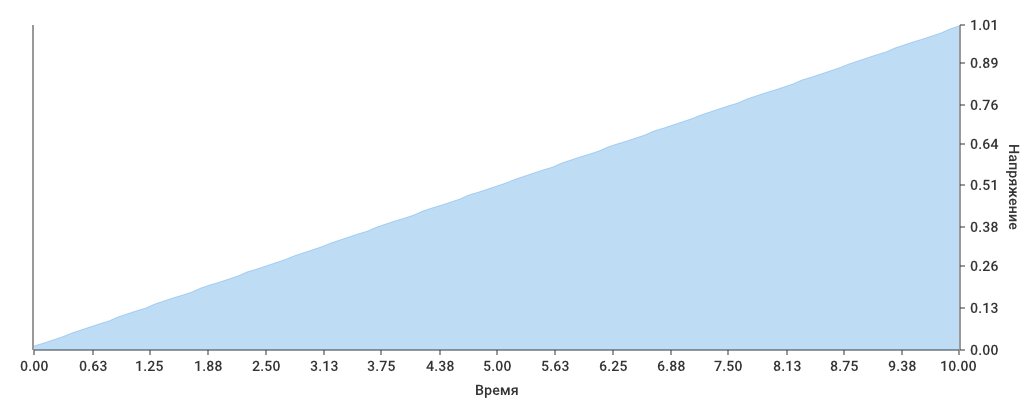
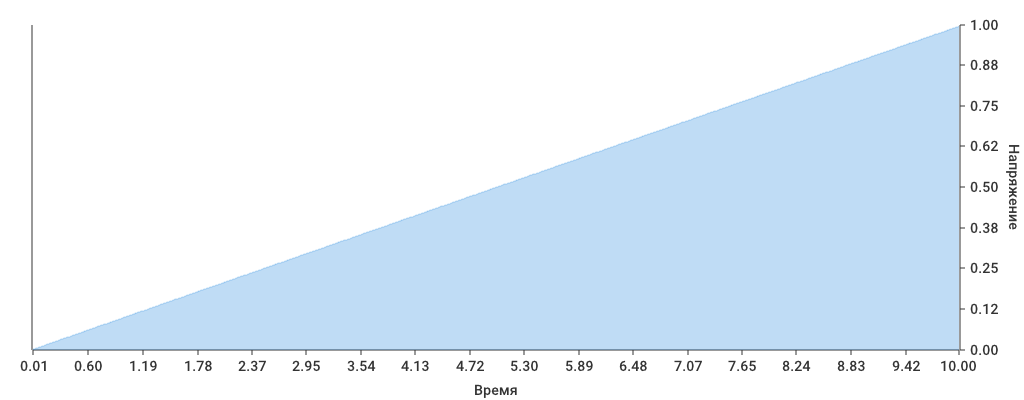
work1 fix

diff --git a/work1/main.go b/work1/main.go
@@ -13,20 +13,13 @@ func main() {
 	R := 100.0 // Споротивление
 	e := 100.0 // ЭДС источника
 	U := 0.0   // Начальное значение
-	dt := 0.1  // Шаг
+	dt := 0.01 // Шаг
 
 	var time []float64   // Массив со временем результатов
 	var result []float64 // Массив с результатами
 
-	// С начального времени до 10, шаг 0.1
-	for t := 0.0; t <= 10.0; t += dt {
-		k1 := dt * ((e - U) / (R * C))
-		k2 := dt * ((e - (U + k1/2)) / (R * C))
-		k3 := dt * ((e - (U + k2/2)) / (R * C))
-		k4 := dt * ((e - (U + k3)) / (R * C))
-
-		U += (k1 + 2*k2 + 2*k3 + k4) / 6 // Решение методом Рунге-Кутты
-
+	for t := dt; t < 10.0; t += dt {
+		U = U + dt*((e-U)/(R*C))
 		time = append(time, t)
 		result = append(result, U)
 	}
